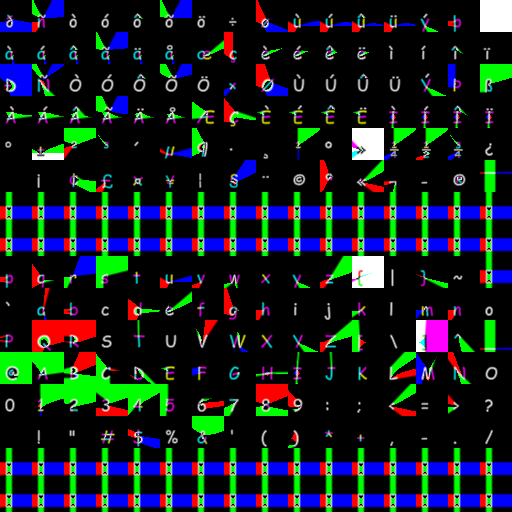
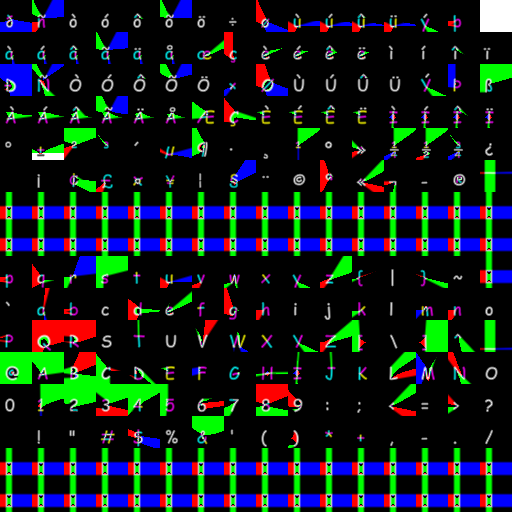
fix inverted msdf characters

Changed region(s): [[0.8125, 0.625, 0.875, 0.6875], [0.6875, 0.5, 0.75, 0.5625], [0.6875, 0.25, 0.75, 0.3125]]

diff --git a/Stora Spel/Graphics/src/Font/Font2D.cpp b/Stora Spel/Graphics/src/Font/Font2D.cpp
@@ -30,7 +30,6 @@ void glob::Font2D::GenerateMsdfShapes(const std::string& font_path) {
 
       FT_Set_Char_Size(face, 32, 32, 1280, 720);
 
-      
       unsigned int end_char = 255;
       unsigned int start_char = 0;
       unsigned int num_chars = end_char - start_char;
@@ -38,7 +37,8 @@ void glob::Font2D::GenerateMsdfShapes(const std::string& font_path) {
       for (int i = 0; i < num_chars; i++) {
         if (loadGlyph(shape, font, start_char + i)) {
           shapes.push_back(shape);
-          if (FT_Error Error = FT_Load_Char(face, (unsigned)i, FT_LOAD_RENDER)) {
+          if (FT_Error Error =
+                  FT_Load_Char(face, (unsigned)i, FT_LOAD_RENDER)) {
             std::cout << "Failed to load Glyph: " << i << " Error: " << Error
                       << "\n";
             advances_.push_back(0);
@@ -80,7 +80,7 @@ void glob::Font2D::GenerateMsdfFont(const std::string& font_path,
           // shape.normalize();
           shapes.push_back(shape);
 
-		  FT_Face face = font->face;
+          FT_Face face = font->face;
 
           FT_Set_Char_Size(face, 32, 32, 1280, 720);
 
@@ -90,9 +90,7 @@ void glob::Font2D::GenerateMsdfFont(const std::string& font_path,
             advances_.push_back(0);
           } else {
             advances_.push_back(face->glyph->advance.x >> 6);
-		  }
-
-		  
+          }
 
           double l = 0, r = 0, t = 0, b = 0;
           shape.bounds(l, b, r, t);
@@ -100,18 +98,50 @@ void glob::Font2D::GenerateMsdfFont(const std::string& font_path,
 
           // shape.normalize();
           //                      max. angle
-          edgeColoringSimple(shape, 3.0);
+          edgeColoringSimple(shape, 3.0, 0ULL);
+
           //           image width, height
           msdfgen::Bitmap<float, 3> msdf(height_, width_);
           //                     range, scale, translation
-          msdfgen::generateMSDF(msdf, shape, 4.0, 16 / fscale,
-                                msdfgen::Vector2(10.0, 10.0));
 
-          for (unsigned int yy = 0; yy < height_; yy++)
+          double range = 4.0;
+          double scale = 16 / fscale;
+          auto translate = msdfgen::Vector2(10.0, 10.0);
+          double edge_threshold = 1.09;
+          bool overlap_support = false;
+          msdfgen::generateMSDF(msdf, shape, range, scale, translate,
+                                edge_threshold, overlap_support);
+
+          // msdfgen::msdfErrorCorrection(msdf, msdfgen::Vector2(0.0, 0.0));
+
+          int sum = 0;
+          for (unsigned int yy = 0; yy < height_; yy++) {
             for (unsigned int xx = 0; xx < width_; xx++) {
               char r = msdfgen::pixelFloatToByte(msdf(xx, yy)[0]);
               char g = msdfgen::pixelFloatToByte(msdf(xx, yy)[1]);
               char b = msdfgen::pixelFloatToByte(msdf(xx, yy)[2]);
+              sum += (int)*reinterpret_cast<unsigned char*>(&r);
+              sum += (int)*reinterpret_cast<unsigned char*>(&g);
+              sum += (int)*reinterpret_cast<unsigned char*>(&b);
+            }
+          }
+          float max_sum = 255 * 3 * height_ * width_;
+
+          //std::cout << char(i) << ": " << sum / max_sum << "\n";
+
+          bool inverted = (sum / max_sum) > 0.6f;
+
+          for (unsigned int yy = 0; yy < height_; yy++) {
+            for (unsigned int xx = 0; xx < width_; xx++) {
+              char r = msdfgen::pixelFloatToByte(msdf(xx, yy)[0]);
+              char g = msdfgen::pixelFloatToByte(msdf(xx, yy)[1]);
+              char b = msdfgen::pixelFloatToByte(msdf(xx, yy)[2]);
+
+              if(inverted) {
+                r = 255 - (unsigned char)r;
+                g = 255 - (unsigned char)g;
+                b = 255 - (unsigned char)b;
+              }
 
               int jumps_down = i / side_dim_;
               int jumps_right = i % side_dim_;
@@ -120,16 +150,16 @@ void glob::Font2D::GenerateMsdfFont(const std::string& font_path,
                   (side_dim_ * width_ - (jumps_down * width_ + yy) - 1) *
                       side_dim_ * width_ * 4 +
                   (jumps_right * height_ + xx) * 4;
-
-              pixels[pos] = r;
+              
+              pixels[pos + 0] = r;
               pixels[pos + 1] = g;
               pixels[pos + 2] = b;
               pixels[pos + 3] = 255;
             }
-
-          // msdfgen::savePng(msdf, output_name.c_str());
+          }
         }
       }
+
       if (lodepng::encode(output_path, pixels, width_ * side_dim_,
                           height_ * side_dim_, LCT_RGBA)) {
         std::cout << "[ERROR] Could not generate sprite-sheet for font\n";
@@ -211,7 +241,8 @@ bool glob::Font2D::LoadFromFile(const std::string& path) {
 }
 
 void glob::Font2D::Draw(ShaderProgram& shader, glm::vec2 pos, unsigned int size,
-                        std::string text, glm::vec4 color, bool visible, bool equal_spacing, float spacing) {
+                        std::string text, glm::vec4 color, bool visible,
+                        bool equal_spacing, float spacing) {
   const char* chars = text.c_str();
   unsigned int len = text.length();
 
@@ -222,7 +253,7 @@ void glob::Font2D::Draw(ShaderProgram& shader, glm::vec2 pos, unsigned int size,
   shader.uniform("fgColor", color);
   shader.uniform("msdf", 0);
   shader.uniform("screen_dims", glob::window::GetWindowDimensions());
-  //shader.uniform("t_pos", pos);
+  // shader.uniform("t_pos", pos);
   shader.uniform("size", size);
 
   double offset_accum = 0;
@@ -232,8 +263,6 @@ void glob::Font2D::Draw(ShaderProgram& shader, glm::vec2 pos, unsigned int size,
   glDepthFunc(GL_ALWAYS);
   for (int i = 0; i < len; i++) {
     unsigned char cur = *(unsigned char*)(chars + i);
-
-    
 
     // FT_Load_Char(face, (FT_ULong)cur, FT_LOAD_RENDER);
     // double kerning = 0;
@@ -258,7 +287,7 @@ void glob::Font2D::Draw(ShaderProgram& shader, glm::vec2 pos, unsigned int size,
       r = advances_[cur];
       //(face->glyph->advance.x >> 6);
       if (!equal_spacing)
-       offset_accum += r * .03 * double(size);
+        offset_accum += r * .03 * double(size);
       else
         offset_accum += spacing;
     }
@@ -272,8 +301,8 @@ void glob::Font2D::Draw(ShaderProgram& shader, glm::vec2 pos, unsigned int size,
   glBindTexture(GL_TEXTURE_2D, 0);
 }
 
-void glob::Font2D::Draw3D(ShaderProgram& shader, glm::vec3 center,
-                          float size, std::string text, glm::vec4 color,
+void glob::Font2D::Draw3D(ShaderProgram& shader, glm::vec3 center, float size,
+                          std::string text, glm::vec4 color,
                           glm::mat4 rotation) {
   const char* chars = text.c_str();
   unsigned int len = text.length();
